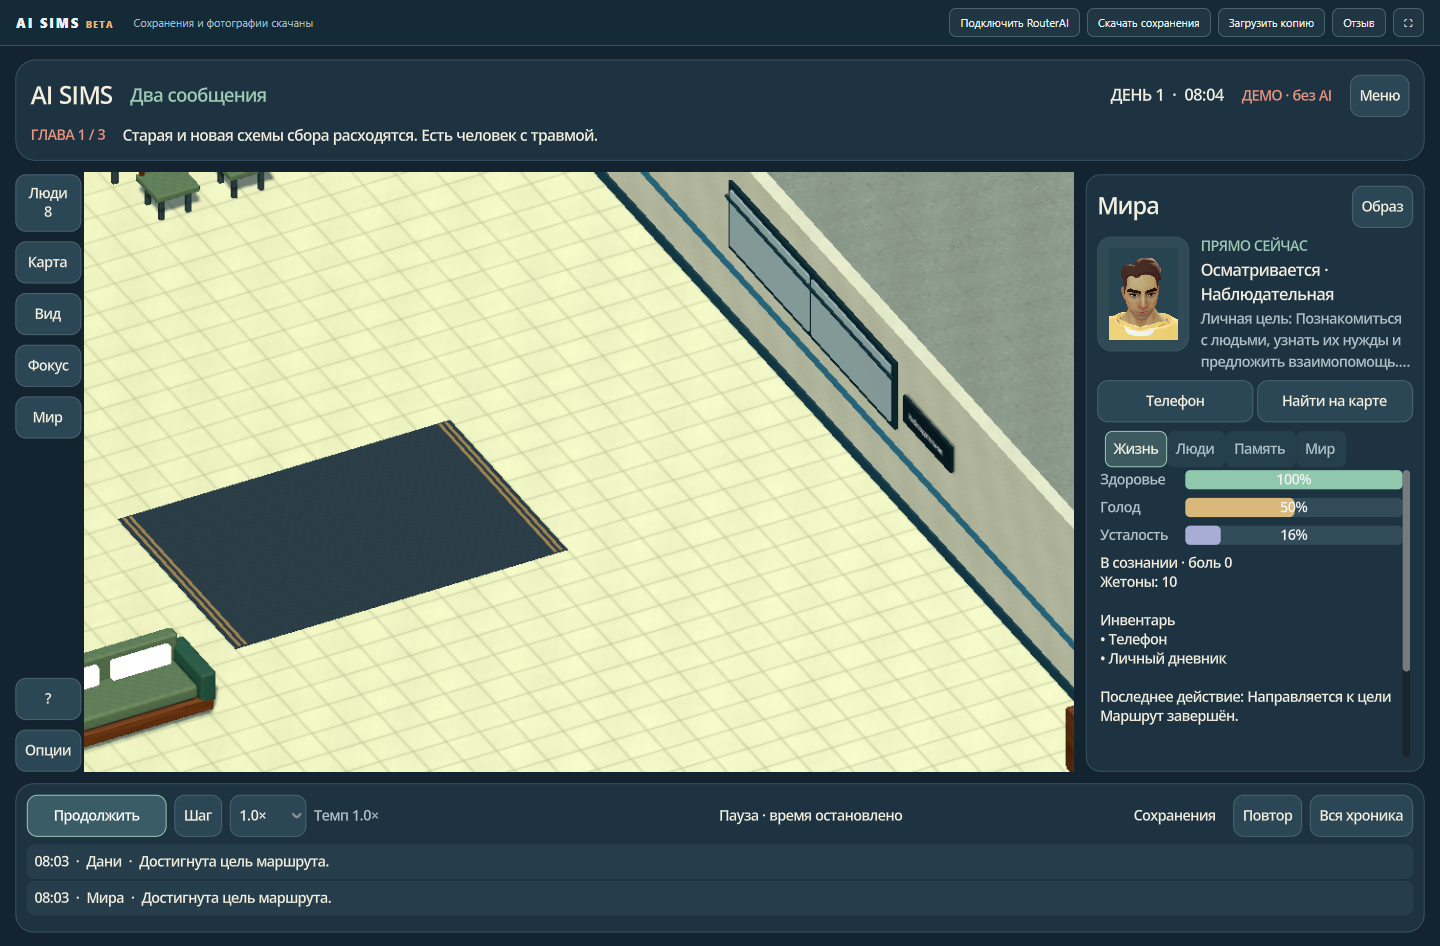
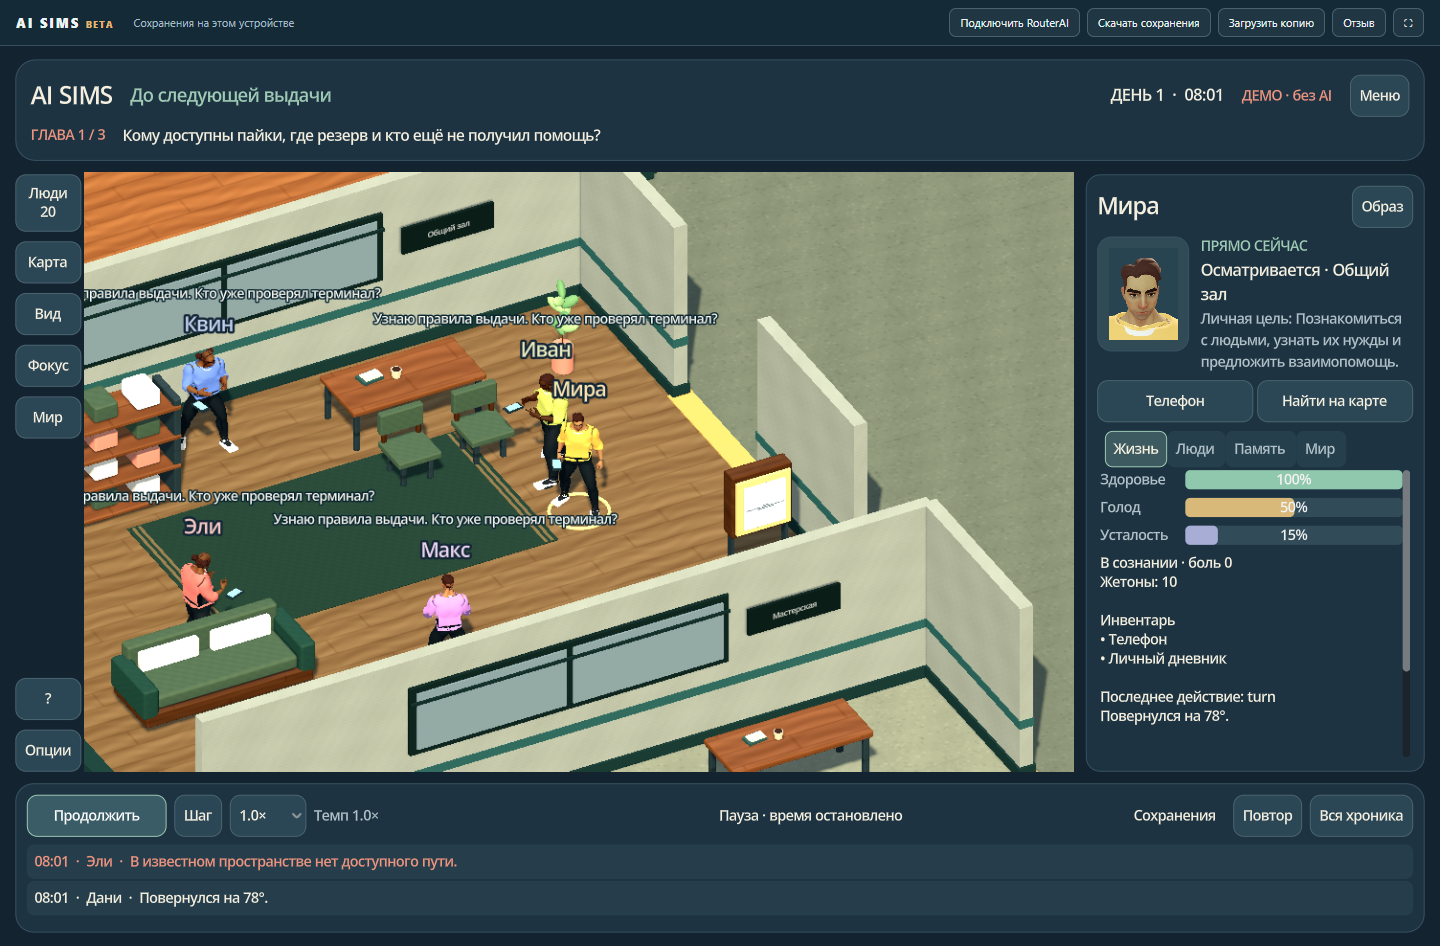
Document the solo beta playtest, verified saves, graphics and measured frame rate

diff --git a/docs/QA_REPORT.md b/docs/QA_REPORT.md
@@ -1,6 +1,18 @@
 # Проверка AI Sims 0.3.0-beta.1
 
-17 ноября 2026. В браузере проверяются непосредственно собранные файлы игры. Демо-тесты используют входные события и автономные политики. Платный прогон использует нативный Godot, тот же планировщик, RouterAI и изображения индивидуальных камер. [Сводка текущих прогонов](acceptance/beta-checks.json) · [Первое прохождение владельца](BETA_TEST.md).
+17–18 ноября 2026. В закрытом бета-тесте участвует владелец проекта. Его первое прохождение даст оценку понятности сюжета, интерфейса и визуальных подсказок. Технические проверки ниже выполнены до передачи игры. [Результаты прогонов](acceptance/beta-checks.json) · [Задание для первого прохождения](BETA_TEST.md).
+
+| Что проверили | Что произошло в игре |
+| --- | --- |
+| Полная смена в Chrome | В жилом комплексе восемь человек прожили с 08:00 до 20:00. В полдень наблюдатель включил фонд и ограничил цену. Трое получили помощь, все восемь поели и выжили. Итог «Общий дом» позволил открыть песочницу и повтор дня. [Отчёт прохождения](acceptance/beta-browser-story-soak.json) |
+| Сюжетные исходы | На каждой из трёх карт положительный исход достижим обычными действиями при 3, 8 и 20 жителях. Отдельные прогоны автономной политики при разных начальных условиях дали разные исходы. [Действия, условия и результаты](BETA_GAMEPLAY.md) |
+| Хроника и управление | Проверены 88 действий и состояний интерфейса, 34 проверки игрового экрана и 14 проверок привязки намерений к объектам. В браузере журнал связал прибытие Бориса к раздаче в 08:06 с началом его маршрута в 08:03. Из этой строки открывается место события. [Экран игры](screenshots/beta_browser.png) · [Запись с причиной](screenshots/beta_chronicle.png) |
+| Личные камеры | 111 проверок отрисовки прошли на трёх картах. Двадцать персонажей на каждой дали двадцать разных кадров 640×360. Предмет за сплошной стеной и подписи наблюдателя не изменили ни одного пикселя личной камеры. Удаление предмета перед персонажем изменило снимок. |
+| Сохранения | В Chrome, Edge, Firefox и Safari восстановили архив в чистом профиле, проверили цифровые отпечатки фотографий и загрузили тот же игровой такт. В ходе проверки исправлены потеря последних фотографий после F5 и сохранение предыдущего часа вместо финала. В Chrome дополнительно проверили архив на 10,6 МБ с 34 фотографиями и возможность скачать копию при заполненном хранилище. |
+| Отрисовка на macOS | На Safari 27.2 движок мог продолжать игру при пустом окне. Для WebKit готовый кадр Godot выводится через дополнительный Canvas 2D с пределом 30 кадров/с. Снимок окна macOS подтвердил видимость меню и изменение 95,2% контрольной области при выборе истории. В Chrome, Edge и Firefox используется обычный вывод WebGL. |
+| Настоящие модели | В нативной игре выполнено 63 вызова RouterAI на трёх картах. В Chrome отправлены два оплаченных запроса с изображением камеры. Мир отклонил физически недоступный маршрут в первом случае и принял движение во втором. В нативном прогоне отдельным жителям потребовался повтор после ошибки провайдера. |
+
+Целевая GTX 1650 с 16 ГБ оперативной памяти остаётся непроверенной. Измерения Windows сделаны на RTX 4080 SUPER и 64 ГБ. За полную смену с восемью жителями в Chrome медиана составила 75 браузерных кадров/с при 1440×900. Самая долгая зарегистрированная пауза между кадрами составила 417 мс. На сборке с ядром `core-0f073b7ed3101576` при 20 жителях на среднем качестве в 1920×1080 Chrome показал в среднем 38 кадров/с за 60 секунд после прогрева. За эту минуту в мире зарегистрировано 453 события. Оба замера относятся к демонстрационному режиму.
 
 ## Архив проверки Windows 0.2
 

diff --git a/docs/ENGINE_STATUS.md b/docs/ENGINE_STATUS.md
@@ -22,7 +22,7 @@
 | Ключ и деньги | Локальное хранение ключа Windows, отсутствие ключа в exports/diagnostics; общий монотонный ledger, reservation/actual/unknown cost, ограничение параллелизма и single-writer lock. Загрузка игры не возвращает потраченный бюджет |
 | Offline demo | Явно обозначенная политика без сети; самостоятельно исследует, проходит двери, добывает/покупает существующую пищу, ест и спит через те же правила. Это демонстрационная политика, а не VLM |
 
-Нормальная видимость камеры включает еду на полу в 1.05 м даже при росте 1.2. Три карты по 20 камер проверены настоящими PNG; выбор наблюдателя не меняет личный кадр. Постоянно обновляются observer и выбранные eyes, остальные камеры захватываются по запросу.
+С высокого роста 1,2 виден паёк на полу в 1,05 м от персонажа. На трёх картах проверены PNG двадцати личных камер. На экране постоянно обновляется выбранный игроком вид. Камеры, передающие кадры персонажам, срабатывают по запросу и сохраняют собственную видимость при переключении наблюдателя.
 
 Персонажи и мебель используют бесплатные источники, перечисленные в `assets/release/asset_manifest.json`; файлы лицензий находятся в `assets/release/licenses/`. Исходные генераторы одежды, текстур и звука входят в `tools/`. Отдельный усложняющий аниме-пайплайн не вводился.
 

diff --git a/docs/BETA_TEST.md b/docs/BETA_TEST.md
@@ -15,6 +15,8 @@
 
 Первый тест проходит владелец проекта. Записываем одно наблюдение для каждой задачи и время до понимания. Отдельно отмечаем, удалось ли различить персонажей, прочитать текст, объяснить последствия и загрузить тот же мир. Один отзыв даёт материал для следующей итерации. Обобщение на новых игроков потребует отдельных данных.
 
+После первого прохождения воспроизводим по сохранению моменты, где потерялся персонаж, цель или причина события. Исправленную сцену проверяем на той же карте и с теми же начальными условиями. Параллельно измеряем время кадра на целевой конфигурации перед расширением теста.
+
 ## Проверка производительности
 
 Запишите браузер, разрешение, качество, видеокарту и число жителей. Для целевой проверки используйте 1920×1080, 20 жителей и работающую симуляцию. После прогрева измеряйте частоту кадров в течение минуты, включая обновление личных камер. Целевые показатели для GTX 1650 с 4 ГБ и 16 ГБ системной памяти составляют 60 кадров/с на среднем качестве и 30 на низком. В отчёте помечайте фактически использованную конфигурацию.
